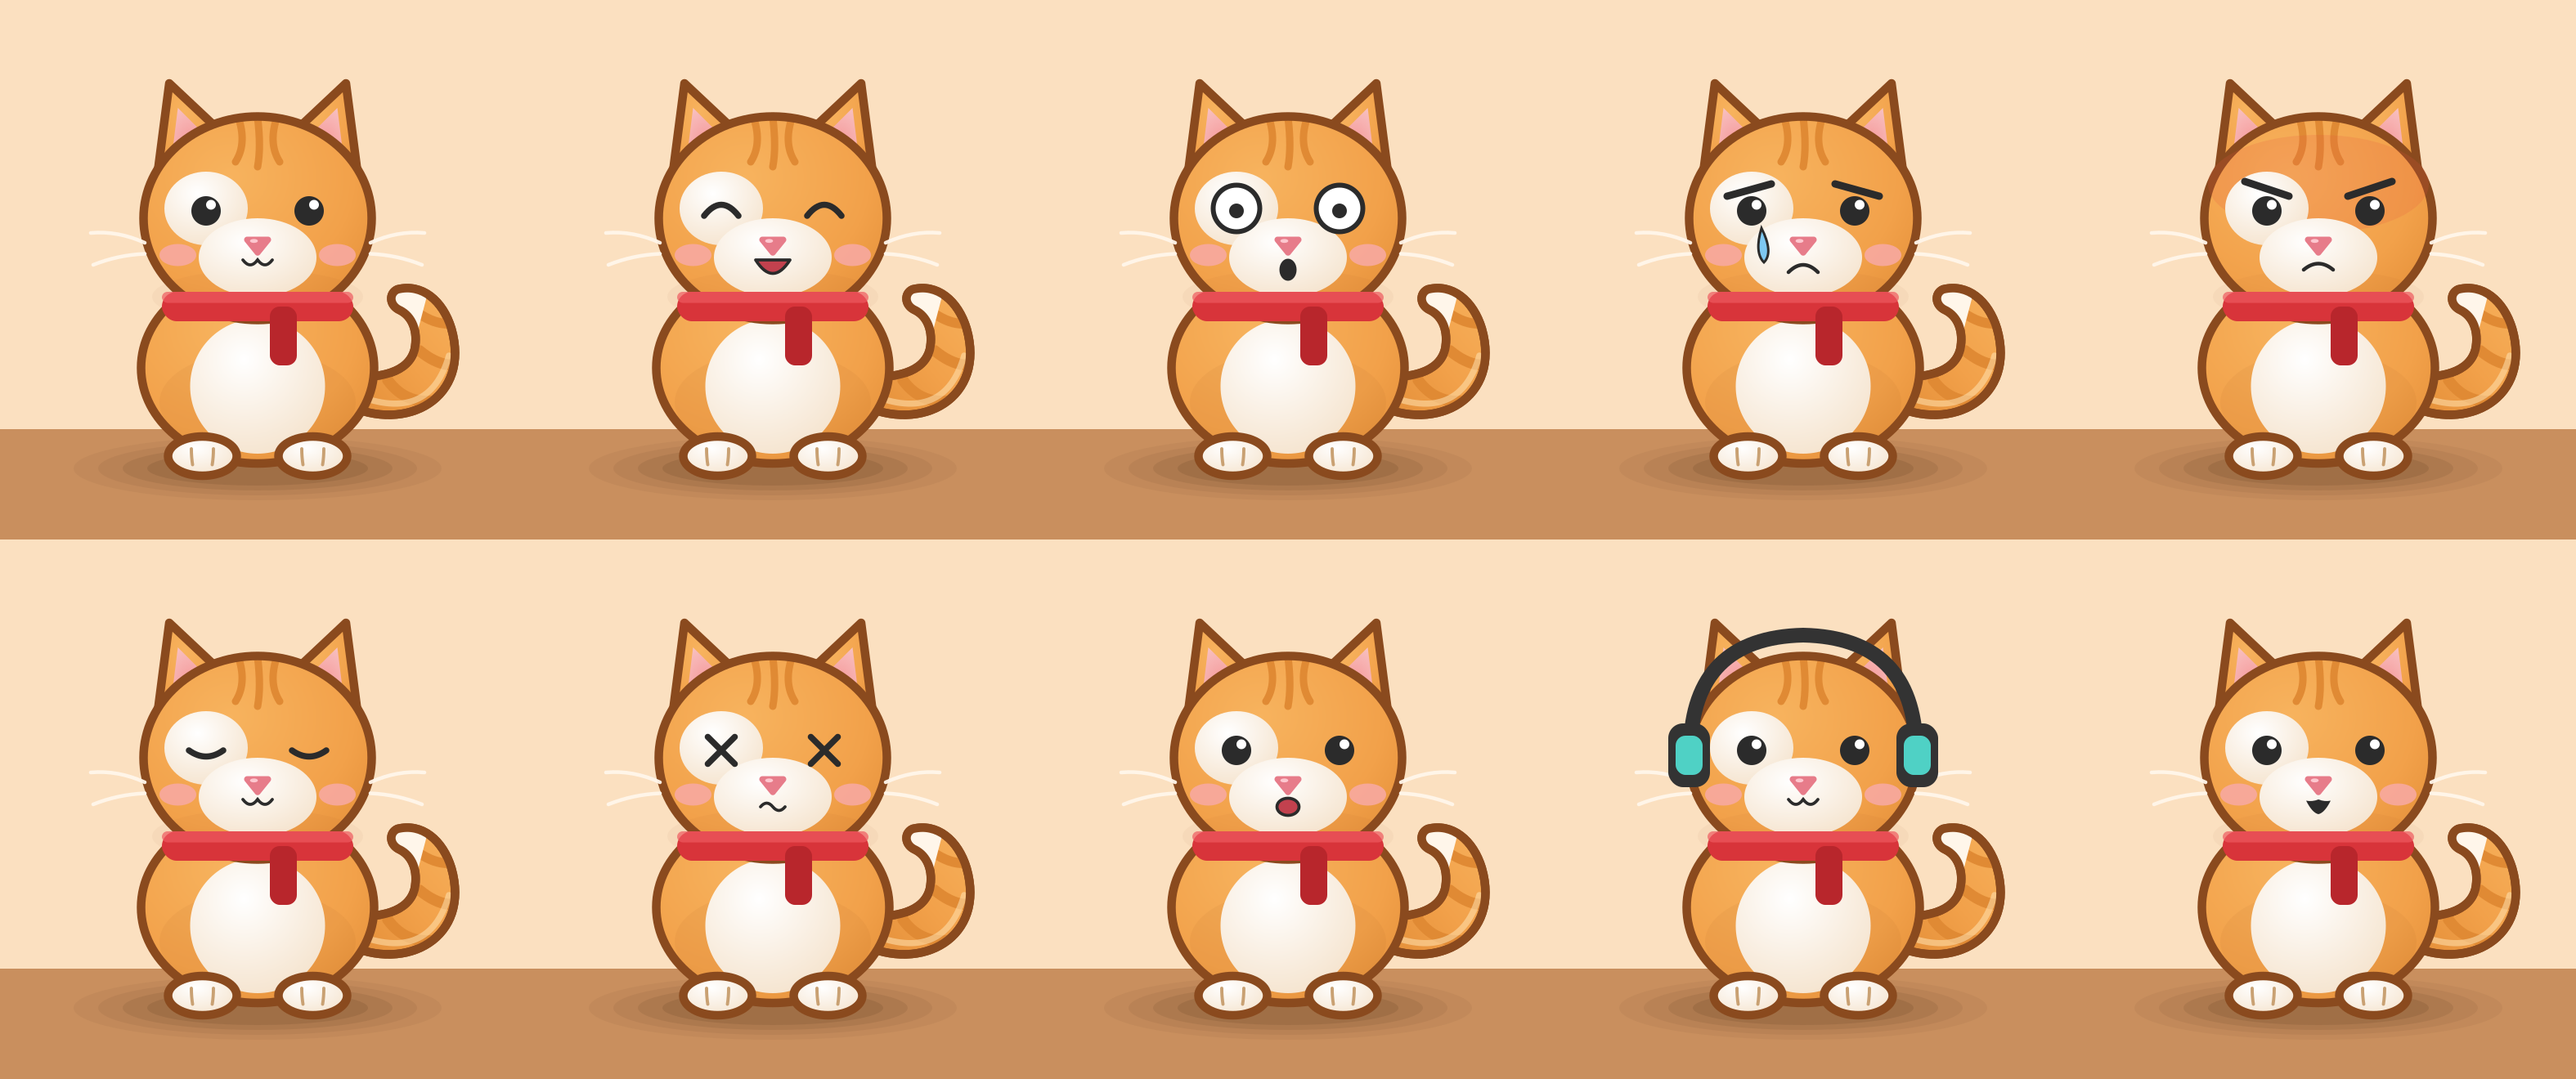
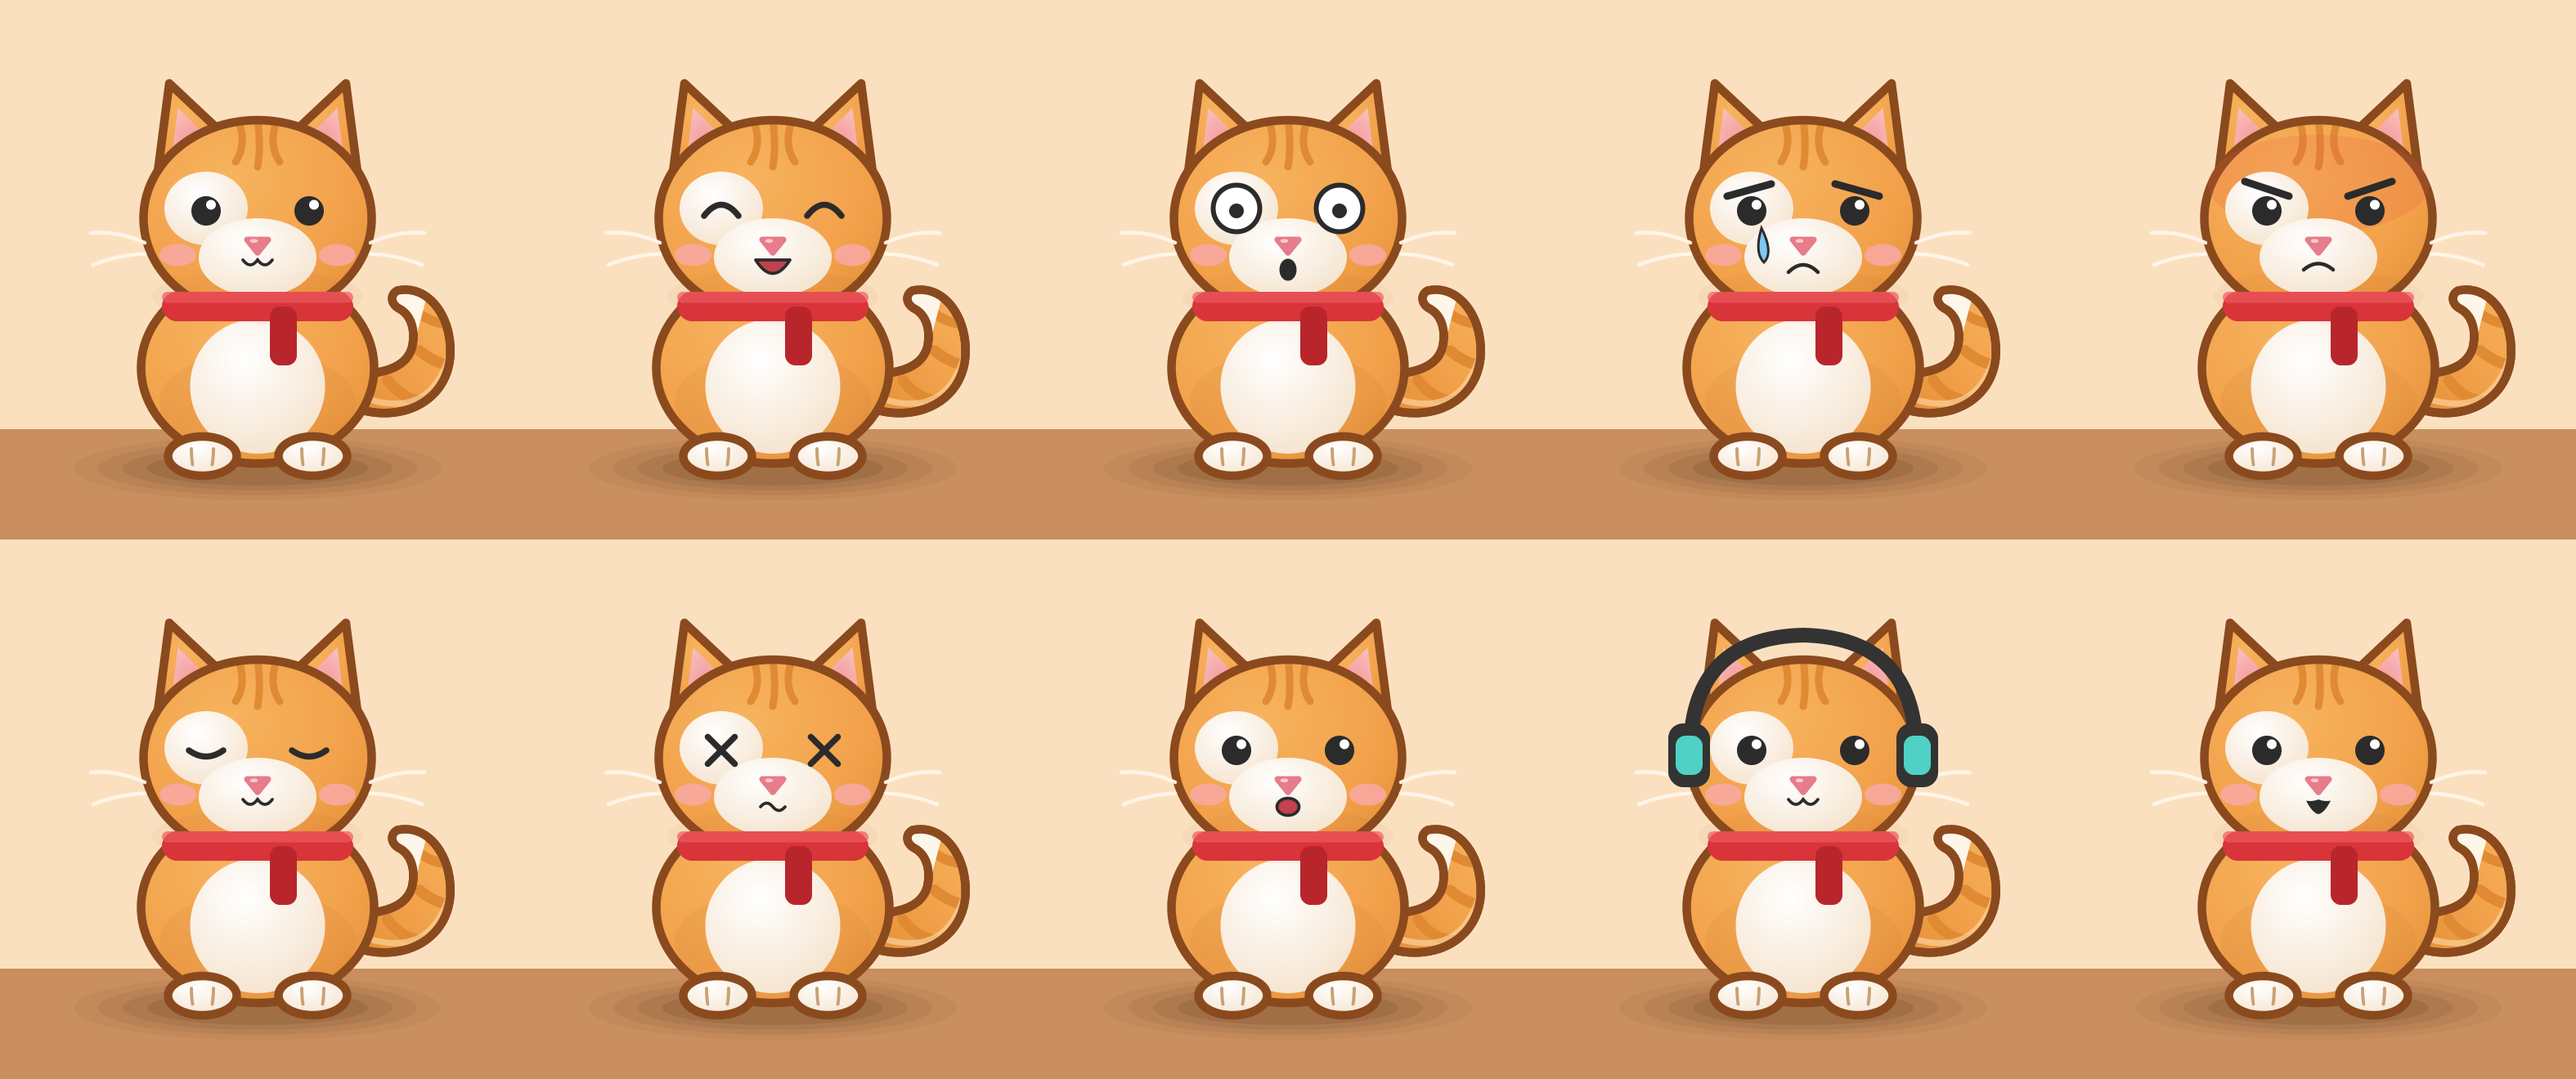
Mochi B: cauda um pouco mais fina e cabeça levemente achatada
Claude-Session: https://claude.ai/code/session_01FLvpF3WqtYzmgJK9KhnAb9

diff --git a/codigo/mochi_kit2.py b/codigo/mochi_kit2.py
@@ -31,8 +31,8 @@ def _shadow():
 
 
 def _tail(s, o):
-    body = ("M262 320 C312 344 364 314 348 258 C341 235 324 221 304 226 "
-            "C297 229 297 239 306 243 C316 248 321 260 318 275 C313 294 290 299 262 297 Z")
+    body = ("M262 320 C310 341 358 312 345 259 C339 237 323 223 304 227 "
+            "C298 230 298 238 306 242 C315 247 319 259 316 273 C311 291 290 296 262 295 Z")
     return f"""<defs><clipPath id="tc"><path d="{body}"/></clipPath>
 <linearGradient id="tg" x1="0" y1="1" x2="1" y2="0"><stop offset="0" stop-color="{s['c3']}"/><stop offset="0.5" stop-color="{s['c2']}"/><stop offset="1" stop-color="{s['c1']}"/></linearGradient></defs>
 <path d="{body}" fill="url(#tg)" {o}/>
@@ -66,13 +66,13 @@ def mochi2(style="A", expr="normal", blink=False, headphones=False, mouth_open=0
 <g {head}>
 <polygon points="108,135 118,58 168,105" fill="url(#gb)" {o}/><polygon points="272,135 262,58 212,105" fill="url(#gb)" {o}/>
 <polygon points="120,118 125,78 152,105" fill="url(#ge)"/><polygon points="260,118 255,78 228,105" fill="url(#ge)"/>
-<ellipse cx="190" cy="168" rx="93" ry="83" fill="url(#gb)"/>
+<ellipse cx="190" cy="168" rx="93" ry="80" fill="url(#gb)"/>
 <ellipse cx="190" cy="232" rx="86" ry="22" fill="#8A4A1E" opacity="{shade*0.18:.2f}"/>
 {rim}
-<path d="M175 88 Q181 108 172 122" fill="none" stroke="{s['c3']}" stroke-width="6" stroke-linecap="round"/>
-<path d="M190 86 Q193 110 190 126" fill="none" stroke="{s['c3']}" stroke-width="6" stroke-linecap="round"/>
-<path d="M205 88 Q199 108 208 122" fill="none" stroke="{s['c3']}" stroke-width="6" stroke-linecap="round"/>
-<ellipse cx="190" cy="168" rx="93" ry="83" fill="none" {o}/>
+<path d="M175 90 Q181 109 172 122" fill="none" stroke="{s['c3']}" stroke-width="6" stroke-linecap="round"/>
+<path d="M190 88 Q193 110 190 126" fill="none" stroke="{s['c3']}" stroke-width="6" stroke-linecap="round"/>
+<path d="M205 90 Q199 109 208 122" fill="none" stroke="{s['c3']}" stroke-width="6" stroke-linecap="round"/>
+<ellipse cx="190" cy="168" rx="93" ry="80" fill="none" {o}/>
 {angry}
 <ellipse cx="148" cy="160" rx="34" ry="30" fill="url(#gc)"/>
 <ellipse cx="190" cy="200" rx="48" ry="32" fill="url(#gc)"/>
